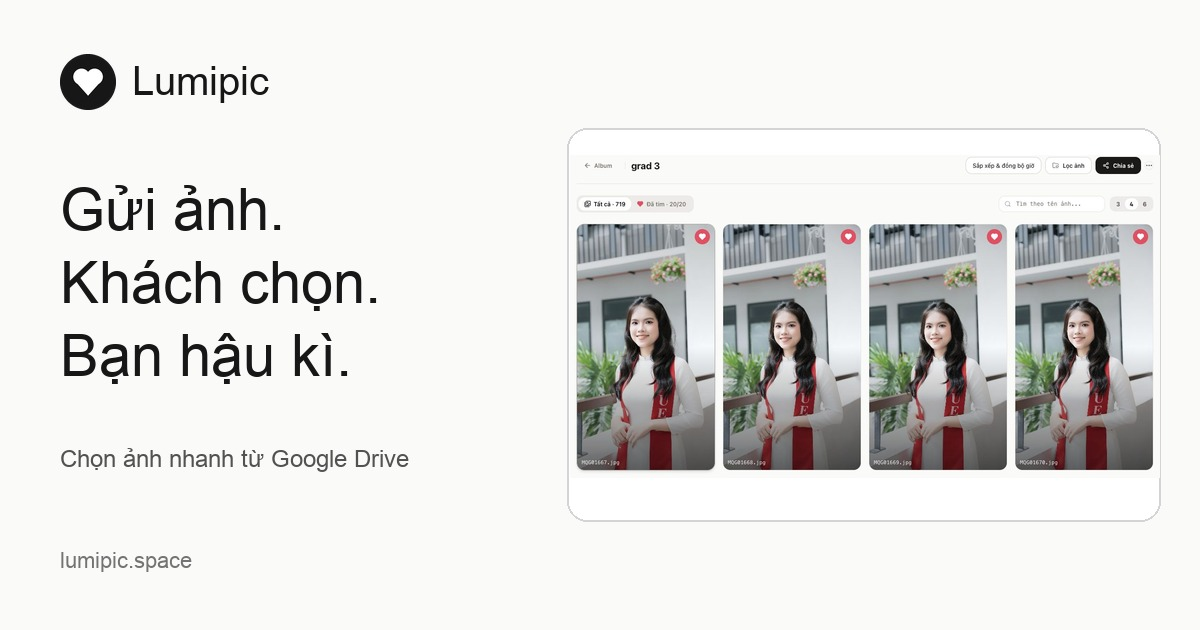
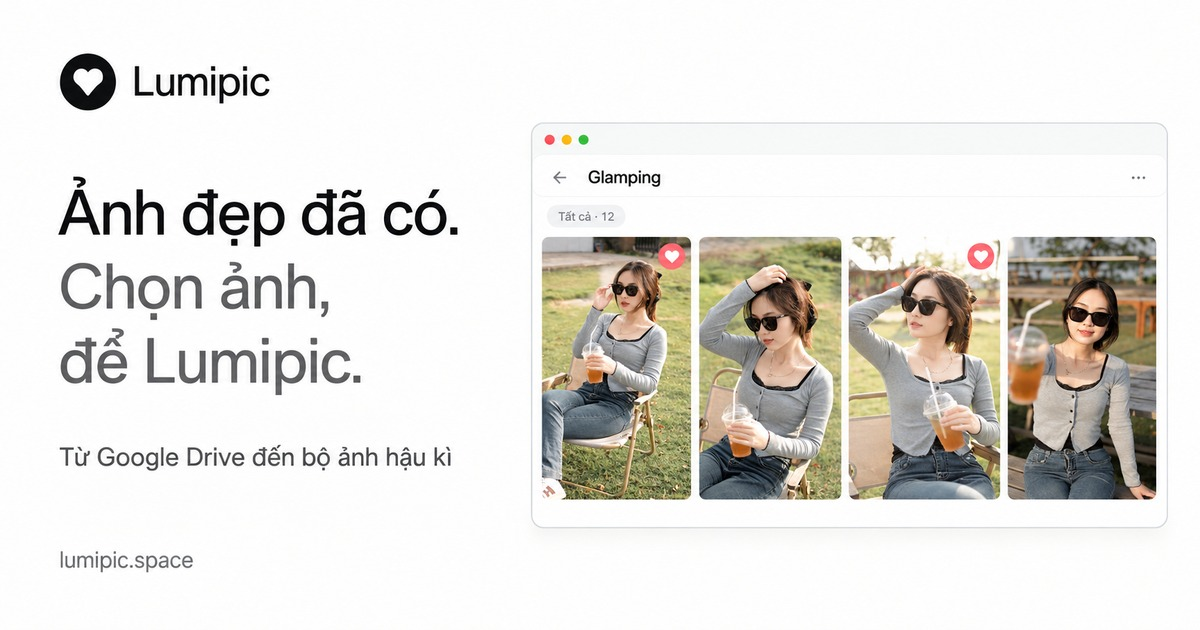
refactor: extract AlbumPhotoEmptyState component and add scanning state support with tests

diff --git a/src/features/photographer/pages/AlbumDetailPage/AlbumDetailPage.tsx b/src/features/photographer/pages/AlbumDetailPage/AlbumDetailPage.tsx
@@ -17,7 +17,7 @@ import { AlbumPhotoGrid } from "./components/AlbumPhotoGrid";
 import { AlbumPhotoGridSkeleton } from "./components/AlbumPhotoGridSkeleton";
 import { Button } from "@/components/ui/button";
 import { Input } from "@/components/ui/input";
-import { Card } from "@/components/ui/card";
+import { AlbumPhotoEmptyState } from "./components/AlbumPhotoEmptyState";
 import { Tabs, TabsList, TabsTrigger } from "@/components/ui/tabs";
 import { AlbumSettingsModal } from "./components/AlbumSettingsModal";
 import { PhotoTimeSettingsModal } from "./components/PhotoTimeSettingsModal";
@@ -145,11 +145,11 @@ const AlbumDetailPage: FC<AlbumDetailPageProps> = ({
           <h1 className="text-base sm:text-xl font-bold text-stone-900 truncate">
             {album.title}
           </h1>
-          {album.status === "importing" && (
+          {["scanning", "importing"].includes(album.status) && (
             <span className="inline-flex items-center gap-1.5 px-2.5 py-0.5 rounded-full text-xs font-medium bg-stone-100 text-stone-600">
               <RefreshCw className="w-3 h-3 animate-spin" />
               <span>
-                Đang tải ({album.importedPhotos}/{album.totalPhotos})
+                {album.status === "scanning" ? "Đang quét ảnh…" : `Đang tải (${album.importedPhotos}/${album.totalPhotos})`}
               </span>
             </span>
           )}
@@ -321,34 +321,7 @@ const AlbumDetailPage: FC<AlbumDetailPageProps> = ({
             onOpenLightbox={onOpenLightbox}
           />
         ) : (
-          <Card className="rounded-2xl p-12 text-center border border-stone-200 shadow-xs space-y-3 bg-white max-w-md mx-auto my-8">
-            {album.status === "importing" ? (
-              <>
-                <div className="w-12 h-12 rounded-2xl bg-stone-100 flex items-center justify-center mx-auto text-stone-900">
-                  <RefreshCw className="w-6 h-6 animate-spin" />
-                </div>
-                <h3 className="text-sm font-bold text-stone-900">
-                  Đang quét ảnh từ Google Drive...
-                </h3>
-                <p className="text-xs text-stone-500">
-                  Đã nhập {album.importedPhotos}/{album.totalPhotos} ảnh. Ảnh sẵn
-                  sàng sẽ tự động xuất hiện tại đây.
-                </p>
-              </>
-            ) : (
-              <>
-                <div className="w-12 h-12 rounded-2xl bg-stone-100 flex items-center justify-center mx-auto text-stone-400">
-                  <Images className="w-6 h-6" />
-                </div>
-                <h3 className="text-sm font-bold text-stone-900">
-                  Không có ảnh nào phù hợp
-                </h3>
-                <p className="text-xs text-stone-500">
-                  Thử thay đổi bộ lọc ảnh hoặc từ khóa tìm kiếm của bạn.
-                </p>
-              </>
-            )}
-          </Card>
+          <AlbumPhotoEmptyState album={album} />
         )}
       </div>
 

diff --git a/tests/albumPhotoEmptyState.test.tsx b/tests/albumPhotoEmptyState.test.tsx
@@ -1,0 +1,34 @@
+import { renderToStaticMarkup } from "react-dom/server";
+import { describe, expect, it } from "vitest";
+import { AlbumPhotoEmptyState } from "../src/features/photographer/pages/AlbumDetailPage/components/AlbumPhotoEmptyState";
+import type { Album } from "../src/features/photographer/types/album.types";
+
+const album: Album = {
+  id: "album", title: "Glamping", folderUrl: "", folderId: "folder", shareId: "share",
+  slug: null, status: "scanning", totalPhotos: 0, importedPhotos: 0,
+  selectedPhotosCount: 0, selectionLimit: 20, selectionLocked: false,
+  createdAt: "", expiresAt: null, coverUrl: "", guestSessionCount: 0,
+};
+describe("album with no displayable photos", () => {
+  it("reports an active scan instead of incorrectly suggesting filter changes", () => {
+    const html = renderToStaticMarkup(<AlbumPhotoEmptyState album={album} />);
+    expect(html).toContain('role="status"');
+    expect(html).toContain("Đang quét ảnh từ Google Drive");
+    expect(html).not.toContain("Không có ảnh nào phù hợp");
+    expect(html).not.toContain("0/0");
+  });
+  it("reports preview progress while importing", () => {
+    const html = renderToStaticMarkup(<AlbumPhotoEmptyState album={{ ...album, status: "importing", totalPhotos: 100, importedPhotos: 12 }} />);
+    expect(html).toContain("Đã nhập 12/100 ảnh");
+  });
+  it("explains a failed scan instead of presenting it as an empty search", () => {
+    const html = renderToStaticMarkup(<AlbumPhotoEmptyState album={{ ...album, status: "needs_attention", errorMessage: "NO_JPEG" }} />);
+    expect(html).toContain('role="alert"');
+    expect(html).toContain("Folder không có ảnh JPEG.");
+  });
+  it("keeps filter guidance for ready albums with no matching photos", () => {
+    const html = renderToStaticMarkup(<AlbumPhotoEmptyState album={{ ...album, status: "ready" }} />);
+    expect(html).toContain("Không có ảnh nào phù hợp");
+    expect(html).toContain("Thử thay đổi bộ lọc");
+  });
+});

diff --git a/src/features/photographer/pages/AlbumDetailPage/components/AlbumPhotoEmptyState.tsx b/src/features/photographer/pages/AlbumDetailPage/components/AlbumPhotoEmptyState.tsx
@@ -1,0 +1,20 @@
+import { Images, RefreshCw, AlertCircle } from "lucide-react";
+import { Card } from "@/components/ui/card";
+import { apiMessages } from "@/api/errors";
+import type { Album } from "@/features/photographer/types/album.types";
+
+export function AlbumPhotoEmptyState({ album }: { album: Album }) {
+  const scanning = album.status === "scanning";
+  const processing = scanning || album.status === "importing";
+  const failed = album.status === "needs_attention";
+  const Icon = processing ? RefreshCw : failed ? AlertCircle : Images;
+  return <Card className="rounded-2xl p-12 text-center border border-stone-200 shadow-xs space-y-3 bg-white max-w-md mx-auto my-8" role={processing ? "status" : failed ? "alert" : undefined}>
+    <div className="w-12 h-12 rounded-2xl bg-stone-100 flex items-center justify-center mx-auto text-stone-500">
+      <Icon className={`w-6 h-6 ${processing ? "animate-spin" : ""}`} aria-hidden="true" />
+    </div>
+    <h3 className="text-sm font-bold text-stone-900">{scanning ? "Đang quét ảnh từ Google Drive…" : processing ? "Đang tạo preview cho album…" : failed ? "Chưa thể nhập ảnh" : "Không có ảnh nào phù hợp"}</h3>
+    <p className="text-xs text-stone-500">
+      {scanning ? "Đang đọc danh sách ảnh trong thư mục Drive. Ảnh sẵn sàng sẽ tự động xuất hiện tại đây." : processing ? `Đã nhập ${album.importedPhotos}/${album.totalPhotos} ảnh. Ảnh sẵn sàng sẽ tự động xuất hiện tại đây.` : failed ? (apiMessages[album.errorMessage ?? ""] ?? album.errorMessage ?? "Quá trình nhập ảnh chưa hoàn tất. Về danh sách album để thử nhập lại.") : "Thử thay đổi bộ lọc ảnh hoặc từ khóa tìm kiếm của bạn."}
+    </p>
+  </Card>;
+}
